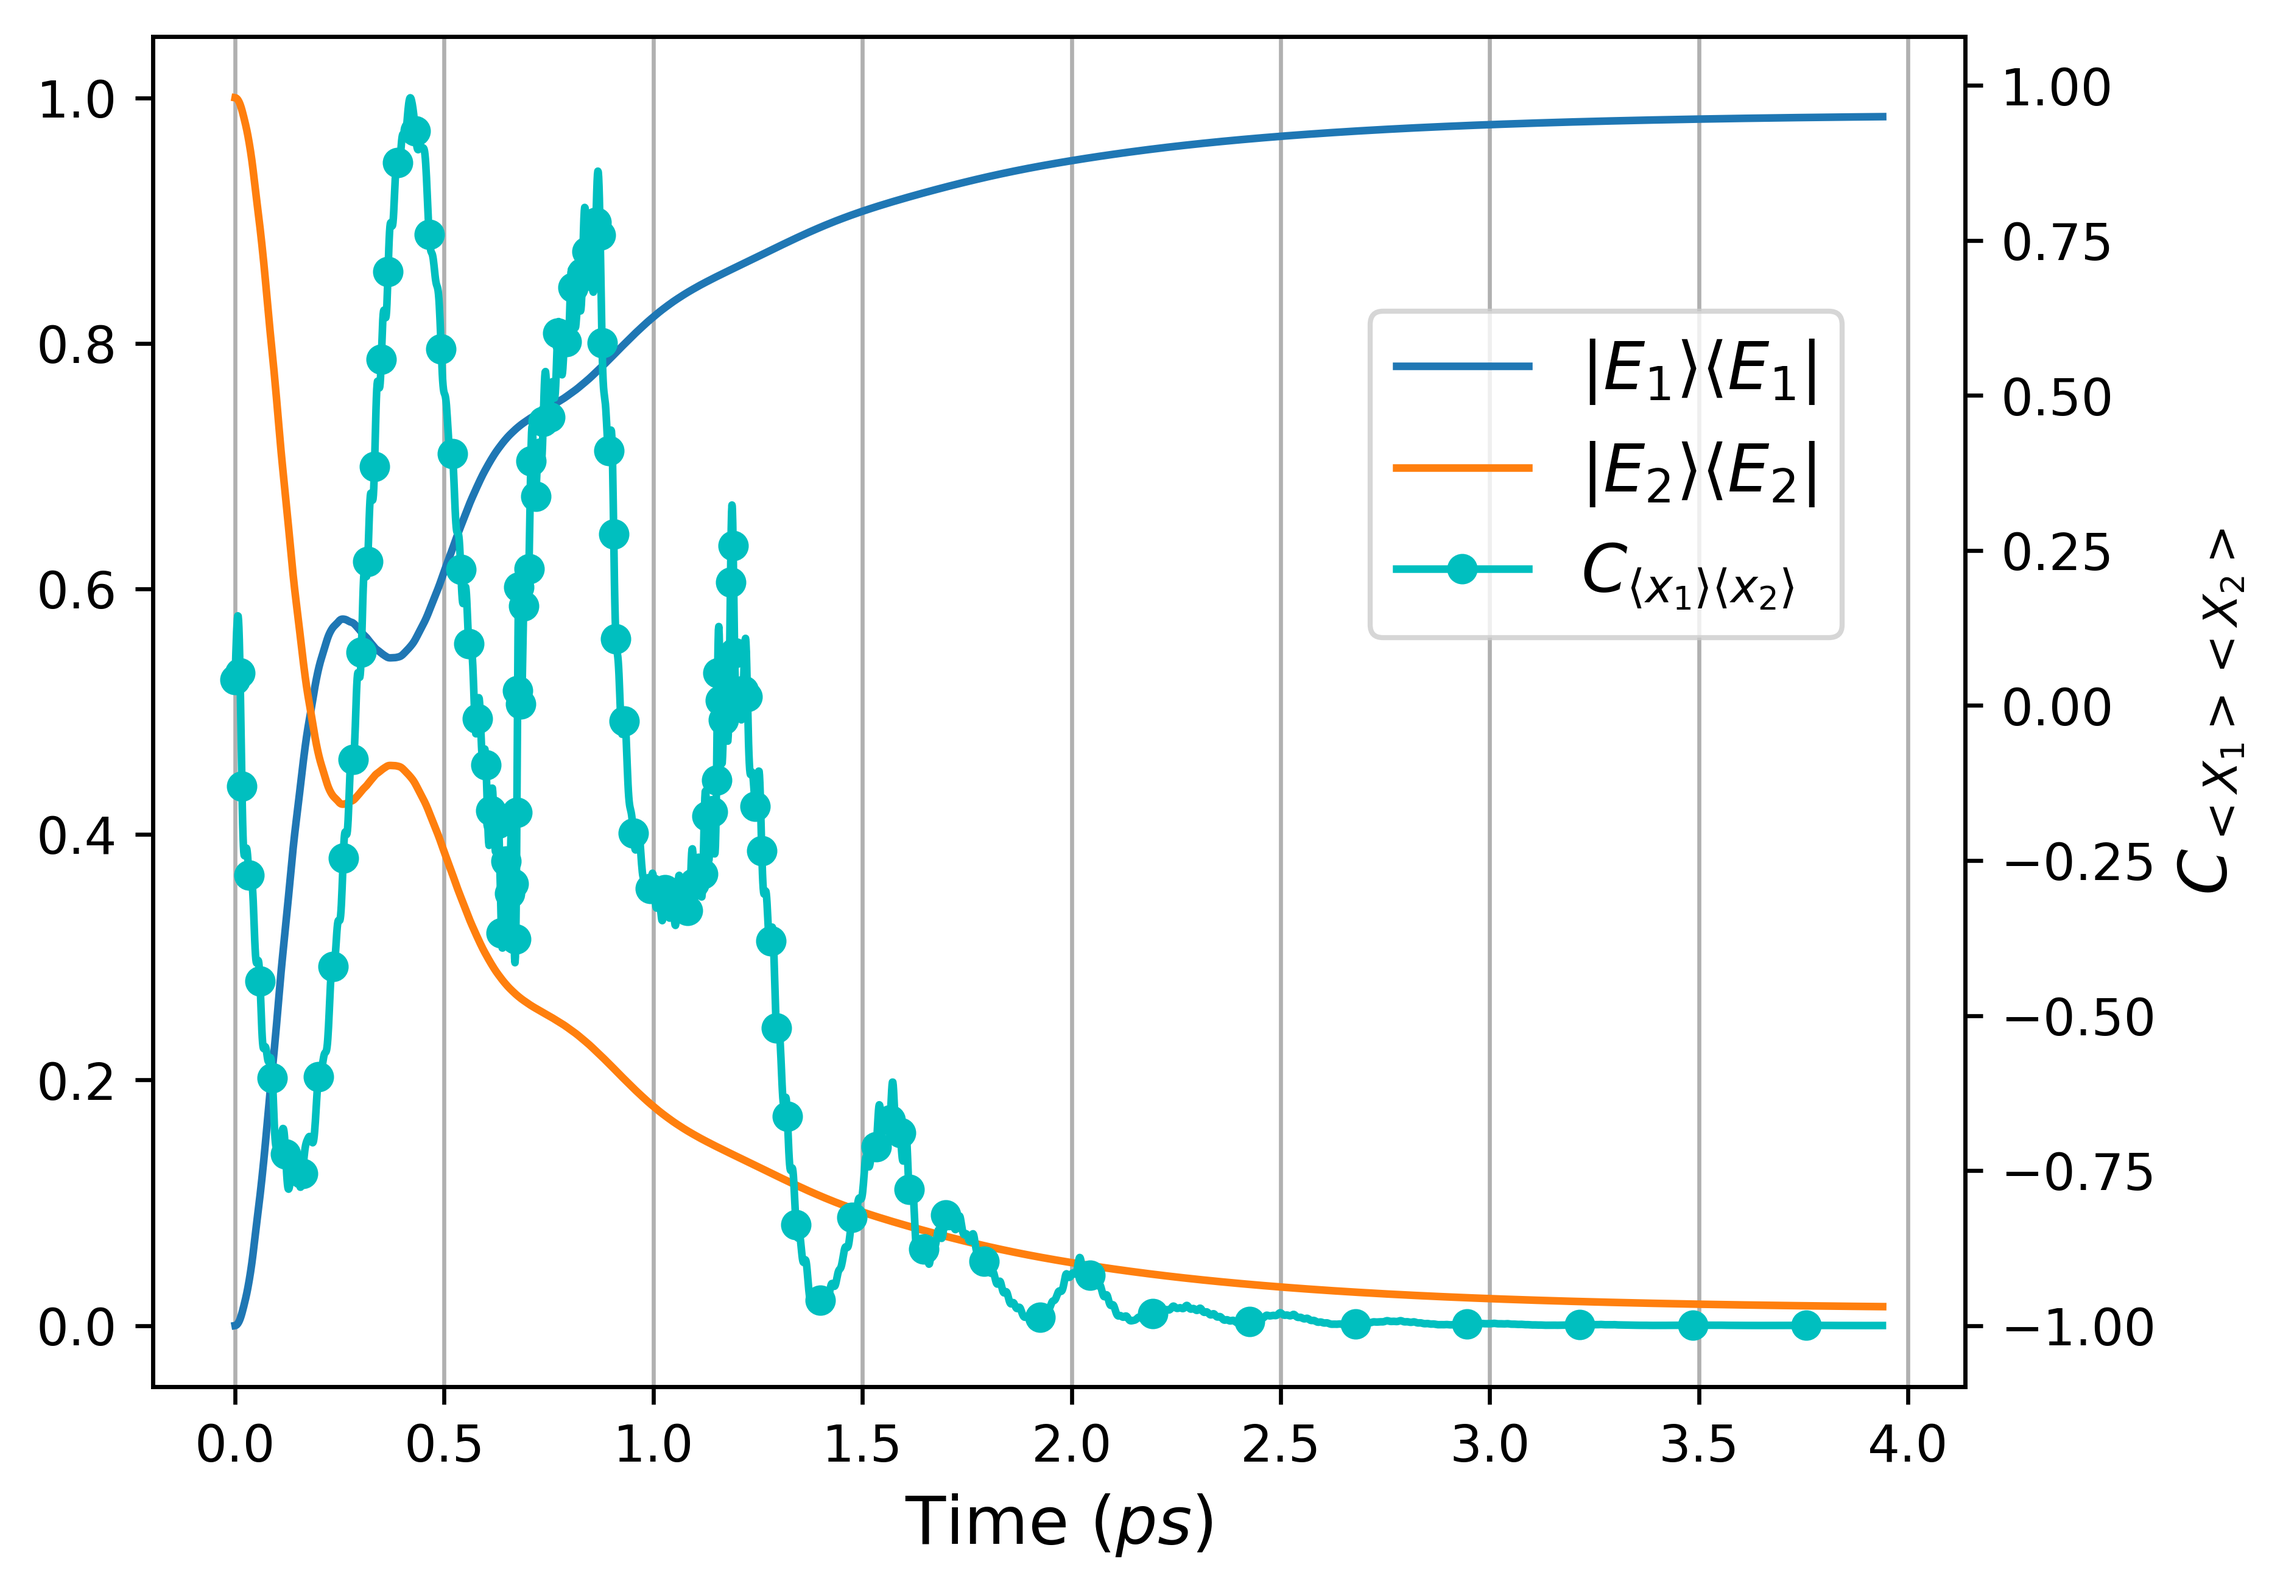
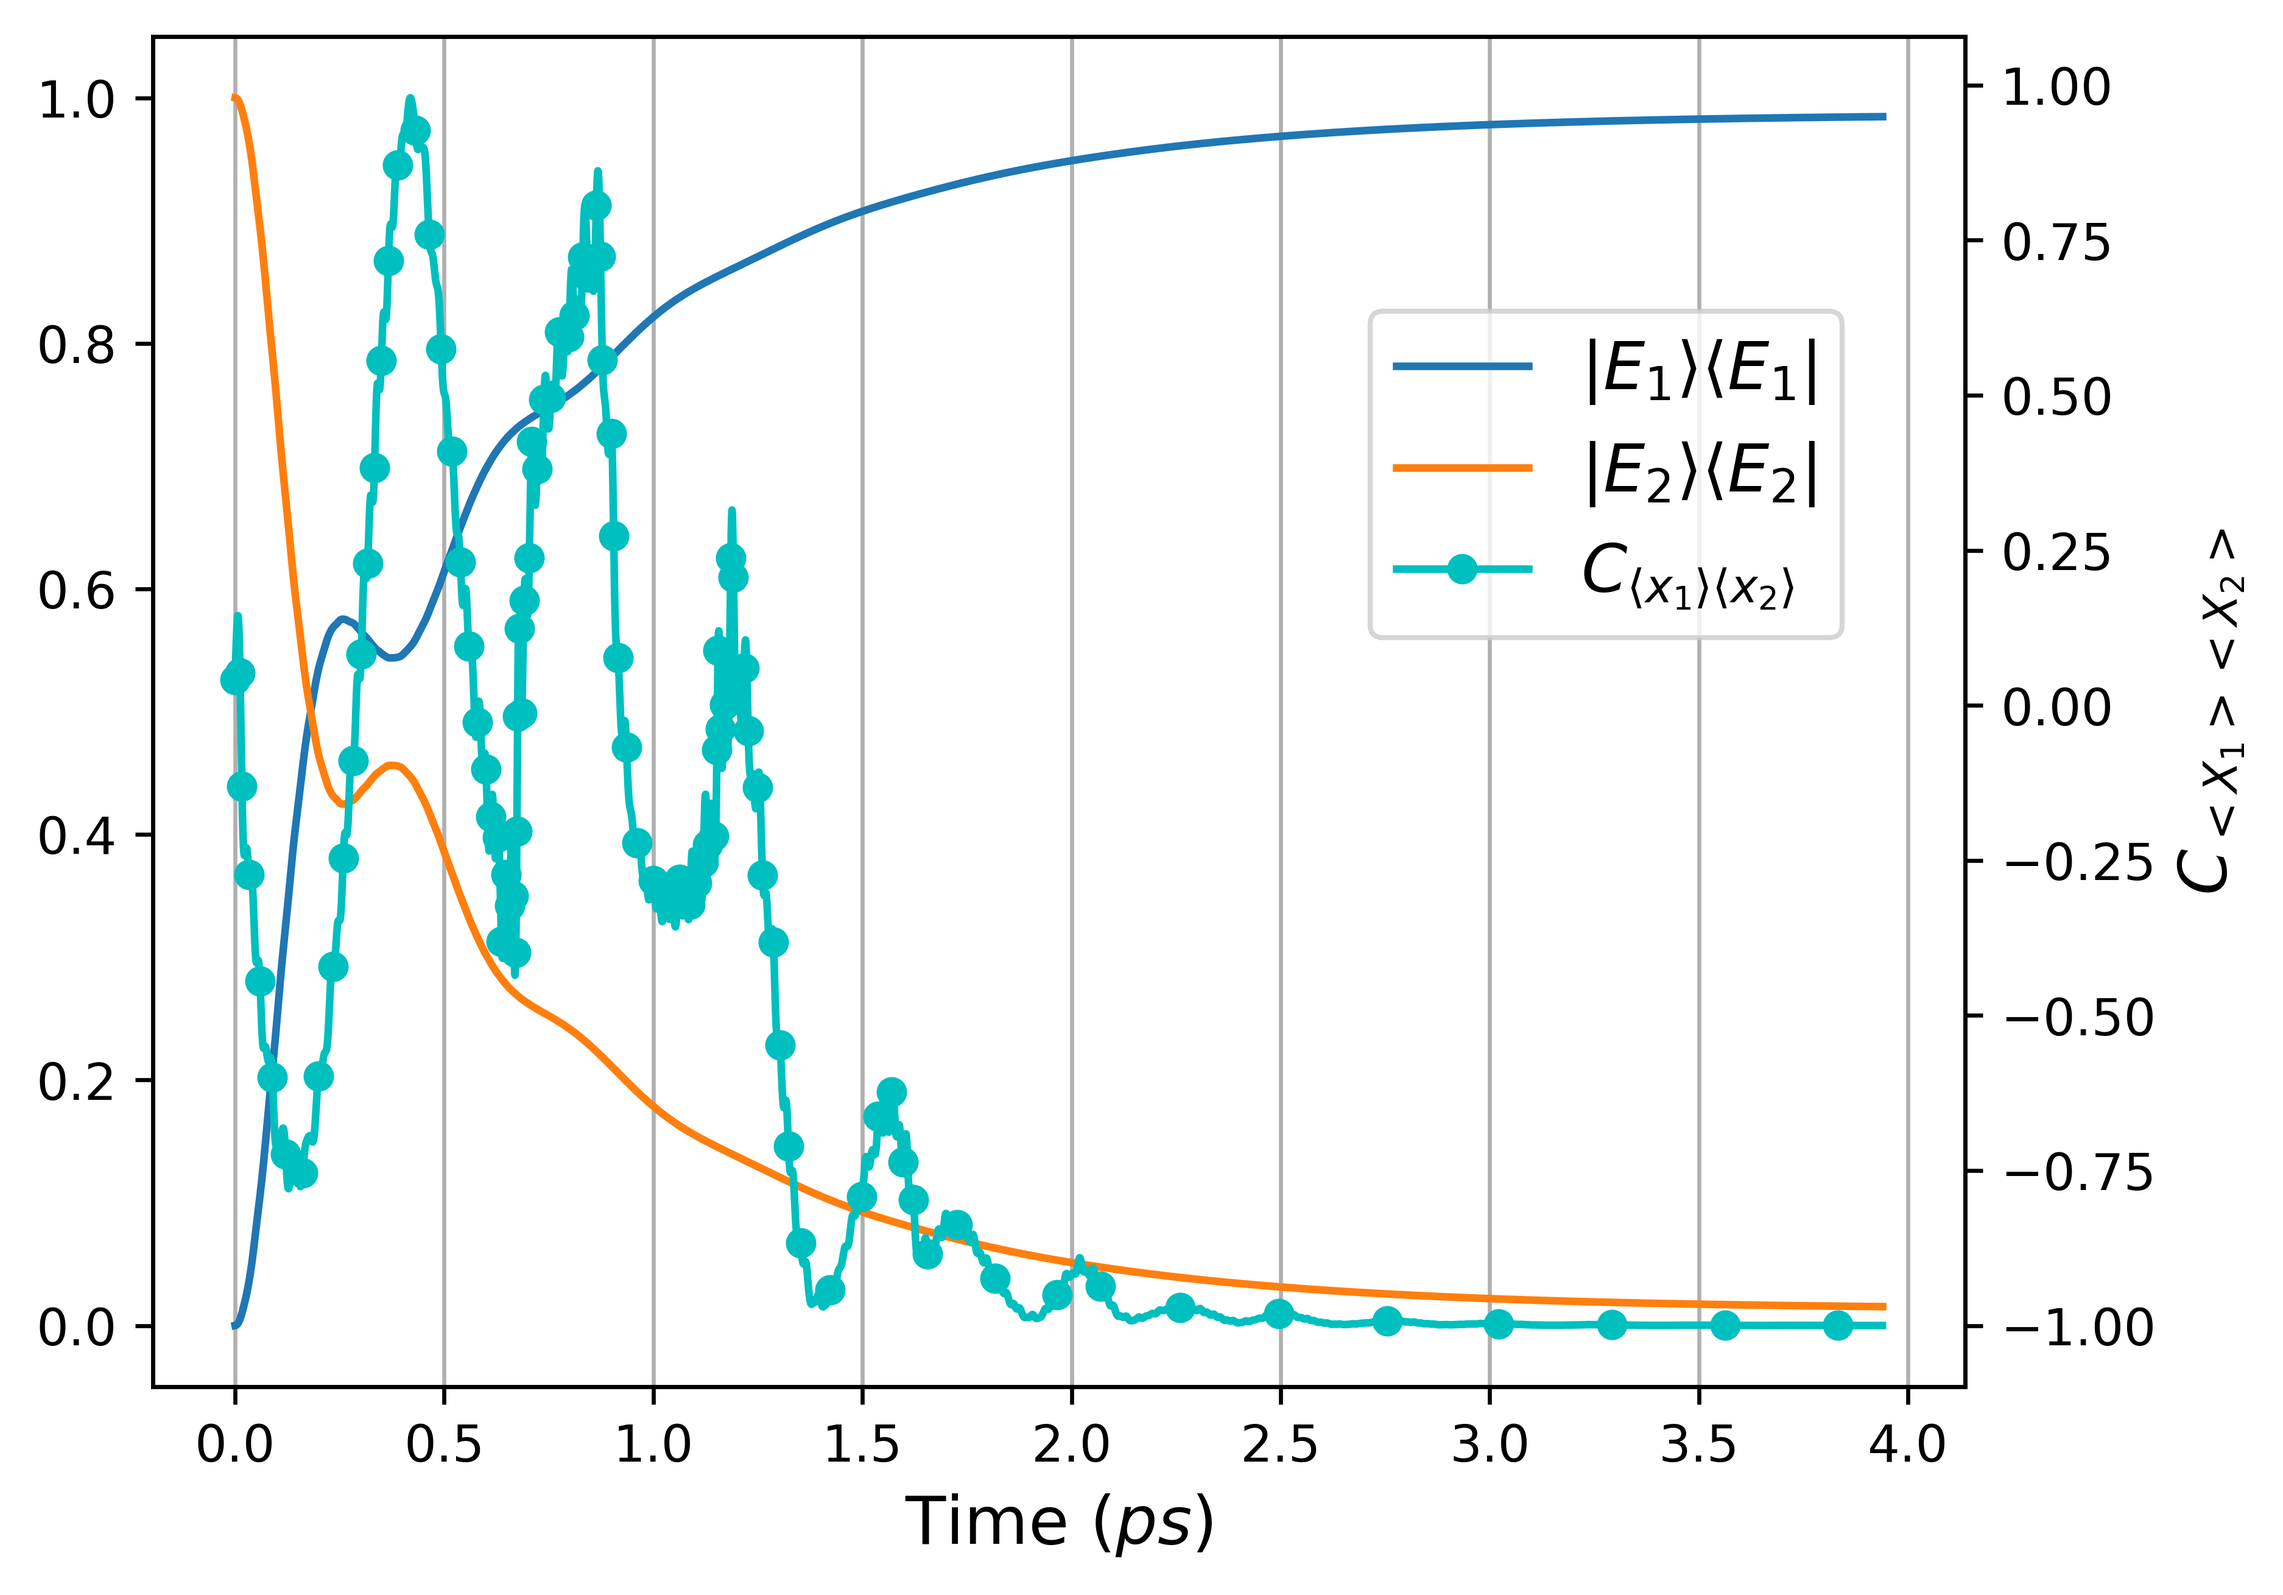
more plots

diff --git a/DimerDetuneNew.py b/DimerDetuneNew.py
@@ -725,7 +725,7 @@ if __name__ == "__main__":
 
 
     #original  r_th =[1ps]^-1, r_el = [0.1ps]^-1
-    plot = Plots(hamiltonian="original", r_th =0.1, r_el =1, phi1 = 0 , phi2 =0, detuning =1, j_k=j_k, save_plots = True, n_cutoff=5, temperature=298, tmax_ps = 30)
+    plot = Plots(hamiltonian="original", r_th =0.15, r_el =0.95, phi1 = 0 , phi2 =0, detuning =1, j_k=j_k, save_plots = True, n_cutoff=5, temperature=298, tmax_ps = 4)
     plot.test()
     plot.matrix_elements()
     plot.sync_evol()
